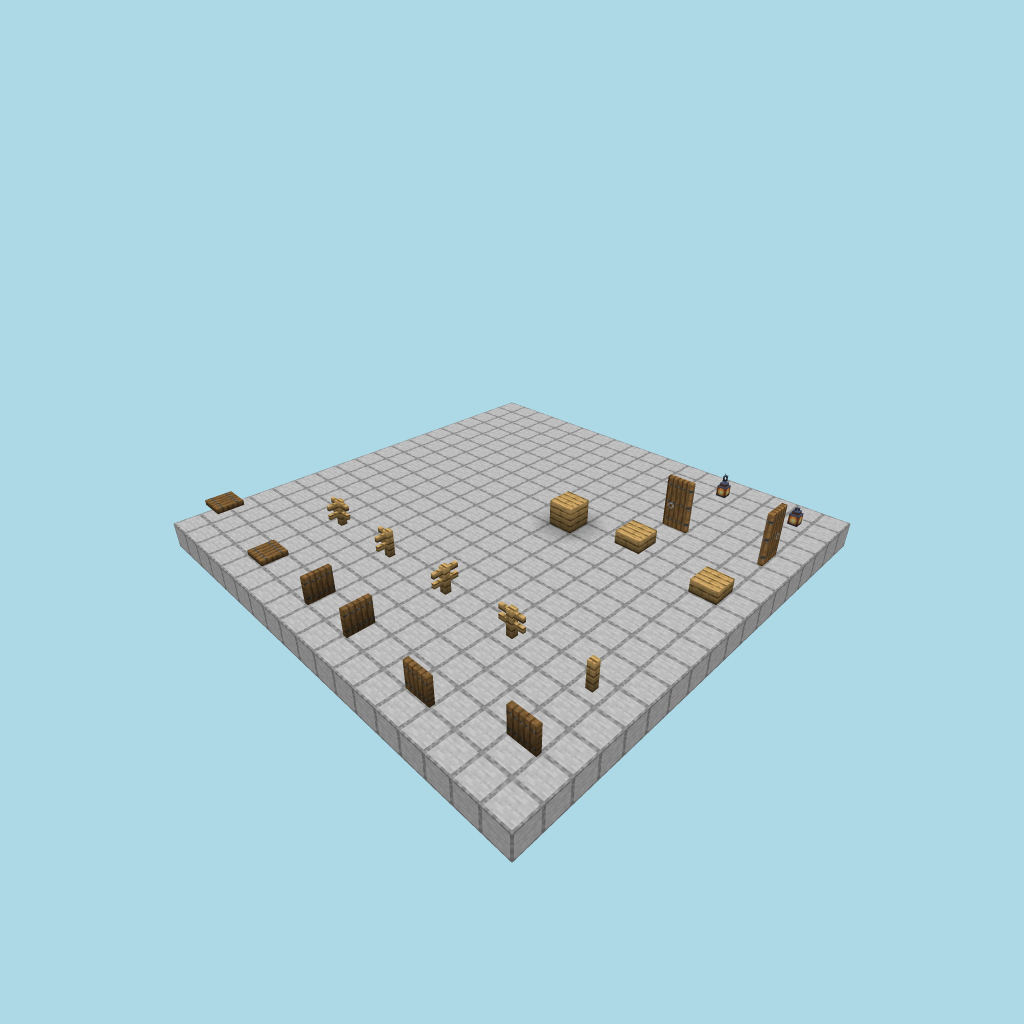
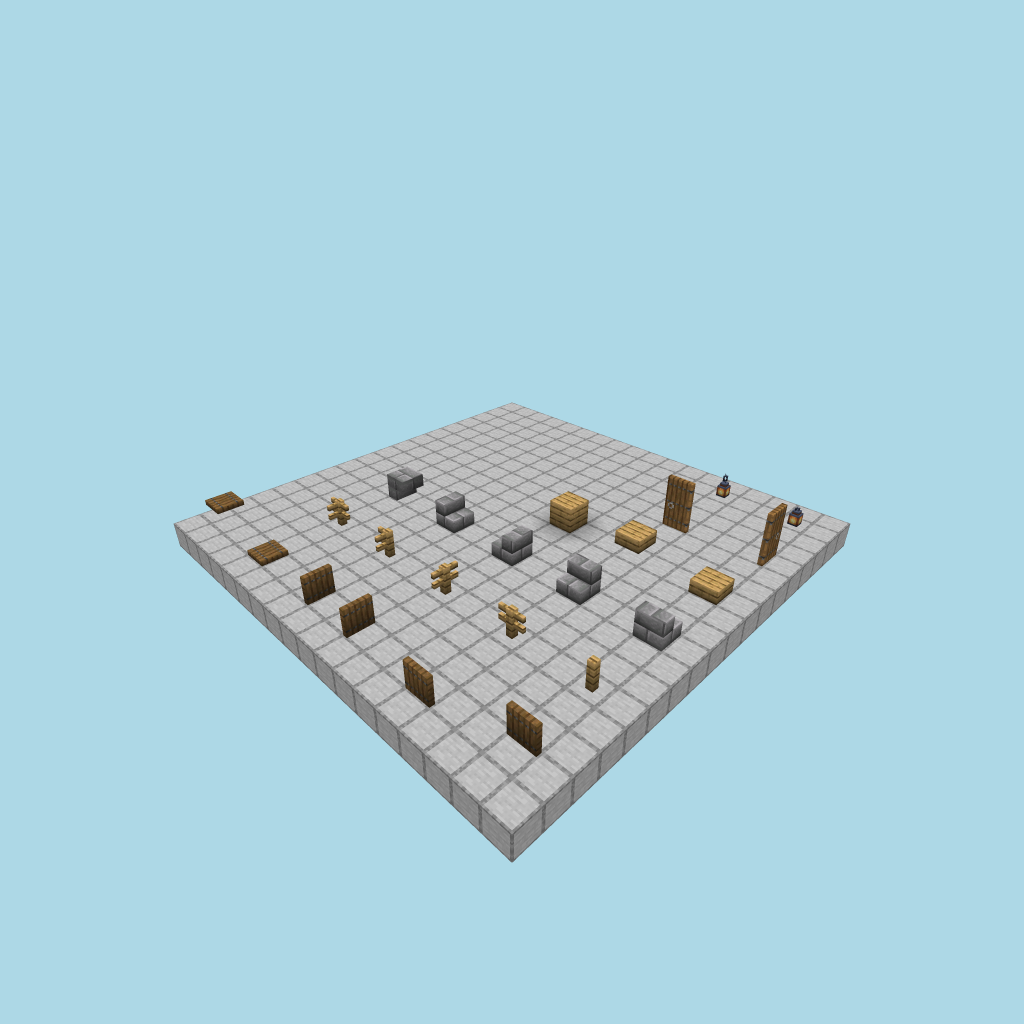
feat(E-27 T-107-01): fixture card through the fixed lens — stair rows visible, stairs-invisible pins retired
Re-cut card: 25/25 read-back unchanged, stair rows now render (the re-cut proof of
the lens fix). NAMED_RESIDUALS empties with the retirement note; roof-program
LENS_NOTE and shaped-vocab prose updated — full-cube arch ring stands on the
native-arch rationale alone.

Changed region(s): [[0.375, 0.4375, 0.5938, 0.5938], [0.5938, 0.5938, 0.6875, 0.6562]]

diff --git a/benchmarks/sculpture/fixture-card/fixture-card.md b/benchmarks/sculpture/fixture-card/fixture-card.md
@@ -31,11 +31,10 @@ Verdict: **PASS** — gate pass, unmapped 0, read-back 25/25.
 | lantern-hanging | lantern | hanging=true | 3,1,15 | ok |
 
 Renders (regression reference):
-- `benchmarks/sculpture/fixture-card/view-card-+x+z.png` (+x+z) sha256 d520e3ca84726cec…
-- `benchmarks/sculpture/fixture-card/view-card-+x-z.png` (+x-z) sha256 006b8dd01e0ff202…
-- `benchmarks/sculpture/fixture-card/view-card--x-z.png` (-x-z) sha256 8be510b3f4d10112…
-- `benchmarks/sculpture/fixture-card/view-card--x+z.png` (-x+z) sha256 d4139ea7f407b6a8…
-- `benchmarks/sculpture/fixture-card/view-card-front.png` (front) sha256 5e3fb39ecef37006…
+- `benchmarks/sculpture/fixture-card/view-card-+x+z.png` (+x+z) sha256 f324cee83a516442…
+- `benchmarks/sculpture/fixture-card/view-card-+x-z.png` (+x-z) sha256 6fd021cf36532c68…
+- `benchmarks/sculpture/fixture-card/view-card--x-z.png` (-x-z) sha256 f6c12f20457e958c…
+- `benchmarks/sculpture/fixture-card/view-card--x+z.png` (-x+z) sha256 e7fdc544969c9a19…
+- `benchmarks/sculpture/fixture-card/view-card-front.png` (front) sha256 08933faf73160f64…
 
 Named residuals (lens, not placement):
-- stairs-invisible: prismarine-viewer 1.33.0 meshes NO stair block at any state (probed oak/stone_brick/cobblestone, default and explicit states) — stairs are placed and read back correctly but do not appear in renders. S-099 must not rely on stair pixels until the lens is fixed.
